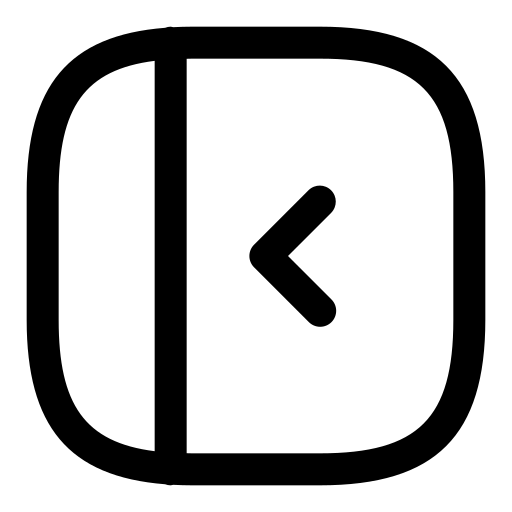
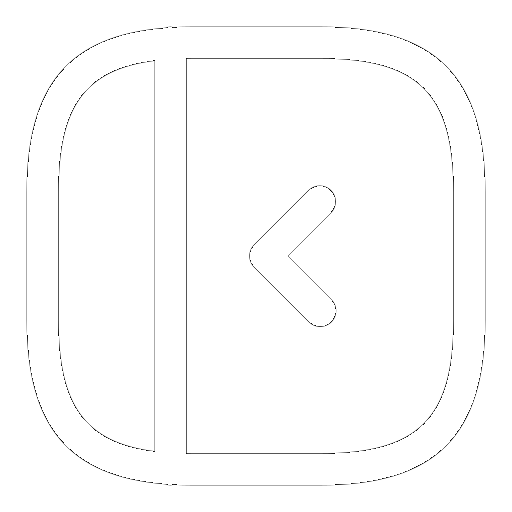
skiftet farve på åben/luk menu ikon, og gjort den større

Changed region(s): [[0.0312, 0.0312, 0.9688, 0.9688], [0.4688, 0.3438, 0.6562, 0.6562]]

diff --git a/Reolmarked/View/MenuView.xaml b/Reolmarked/View/MenuView.xaml
@@ -153,7 +153,7 @@
             <Border Grid.Row="0" 
                     Background="#007bff" 
                     CornerRadius="0,12,0,0" 
-                    Padding="20,15">
+                    Padding="20,9">
                 <Grid>
                     <Grid.ColumnDefinitions>
                         <ColumnDefinition Width="*"/>
@@ -170,7 +170,7 @@
                     <Button Grid.Column="1"
                             x:Name="CloseMenuBtn" 
                             Style="{StaticResource CloseButton}">
-                        <Image Source="/Data/img/close_menu.png" Height="16" Width="16"/>
+                        <Image Source="/Data/img/close_menu.png" Height="25" Width="25"/>
                     </Button>
                 </Grid>
             </Border>

diff --git a/Reolmarked/View/MenuClosedView.xaml b/Reolmarked/View/MenuClosedView.xaml
@@ -54,12 +54,12 @@
             <Border Grid.Row="0" 
                     Background="#007bff" 
                     CornerRadius="0,12,0,0" 
-                    Padding="9">
+                    Padding="5">
                 <Button x:Name="OpenMenuBtn" 
                         Style="{StaticResource OpenMenuButton}"
-                        ToolTip="Åbn menu" Margin="-8,0,-5,0"
+                        ToolTip="Åbn menu" Margin="-3,0,-2,0"
                         Background="#007bff">
-                    <Image Source="/Data/img/open_menu.png" Height="20" Width="20"/>
+                    <Image Source="/Data/img/open_menu.png" Height="25" Width="25"/>
                 </Button>
             </Border>
         </Grid>
